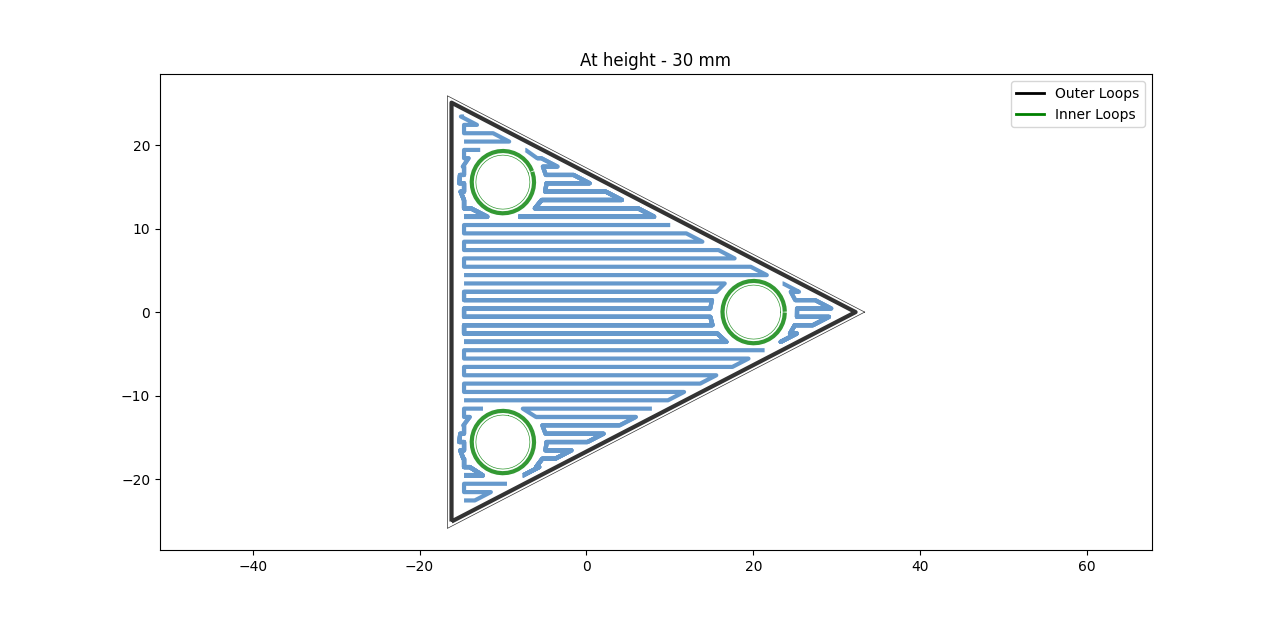
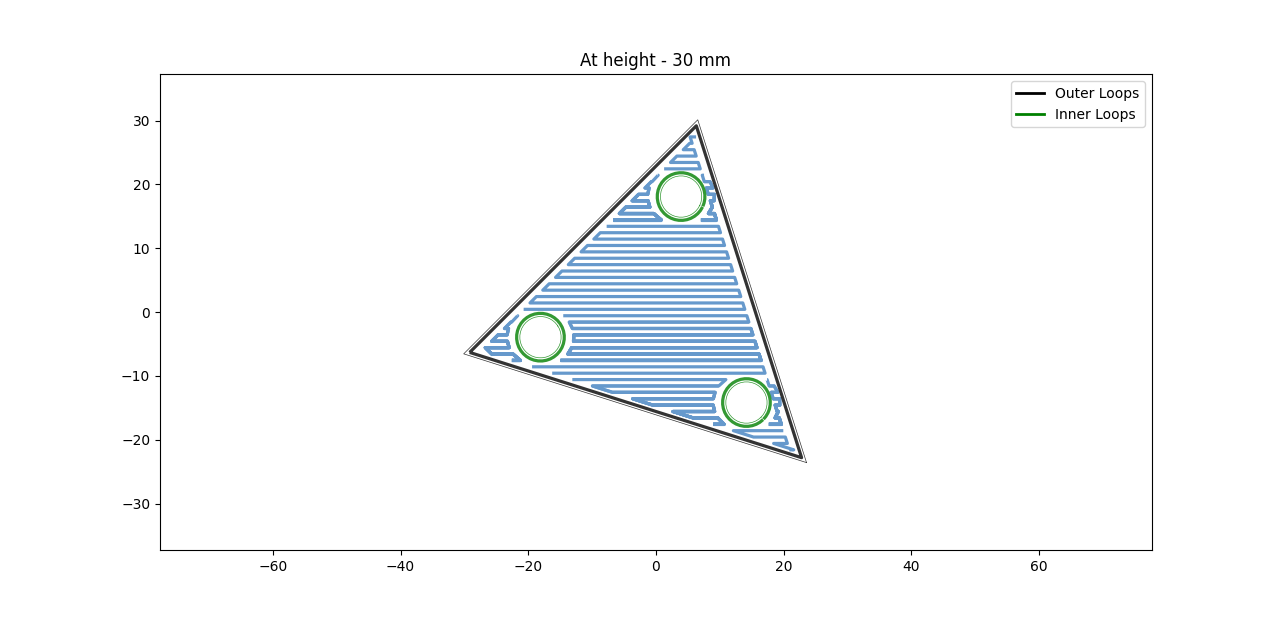
Improved refining, removed bugs

diff --git a/main.py b/main.py
@@ -16,6 +16,7 @@ from figures import SIZE, BLUE, GRAY, GREEN, DARKGRAY, set_limits, plot_line
 print('Solution by Snehil Saluja. Please keep on closing the windows opening while the code runs to proceed further.')
 
 mesh = trimesh.load('./assignment.stl')
+check_points = []
 
 
 def add_shell(ax, x, y, count, air_gap, shell_width, mode="inner"):
@@ -63,21 +64,38 @@ def plot_maze(ax, line, turn, anyline, air_gap, raster_width):
         return anyline
 
 
+def check_cuts(i, polygon):
+    intersection_line = LineString([(-5000, i), (5000, i)])
+    try:
+        collect = polygon.intersection(intersection_line)
+        return(collect)
+    except:
+        return(0)
+
+
 def infill(ax, polygon, x, y, air_gap, raster_width):
+
+    k = 0
 
     i = min(y) + air_gap + raster_width
     turn = 'odd'
     mainmultiline = []
     mainline = []
+    counter = 0
 
     while(i < (max(y) - air_gap - raster_width)):
-        intersection_line = LineString([(-5000, i), (5000, i)])
-        try:
-            collect = polygon.intersection(intersection_line)
-        except:
-            break
+        if(check_cuts(i, polygon) == 0):
+            continue
+        else:
+            collect = check_cuts(i, polygon)
 
         if(isinstance(collect, MultiLineString)):
+            if(len(check_cuts(i, polygon).geoms) != counter):
+                mainmultiline = [[] for line in list(collect.geoms)]
+                turnarray = ['odd' for line in list(collect.geoms)]
+                counter = len(collect.geoms)
+                continue
+
             if(len(mainline) > 0):
                 mainmultiline = [[] for line in list(collect.geoms)]
                 turnarray = ['odd' for line in list(collect.geoms)]
@@ -87,6 +105,7 @@ def infill(ax, polygon, x, y, air_gap, raster_width):
                 mainline = []
                 turn = 'odd'
             for j, line in enumerate(list(collect.geoms)):
+                # print(j, line)
                 plot_maze(
                     ax, line, turnarray[j], mainmultiline[j], air_gap, raster_width)
                 if(turnarray[j] == 'even'):
@@ -111,7 +130,8 @@ def infill(ax, polygon, x, y, air_gap, raster_width):
         i = i + air_gap + (raster_width)
 
     if(mainline != []):
-        plot_line(ax, LineString(mainline), color=BLUE, linewidth=raster_width)
+        final = LineString(mainline)
+        plot_line(ax, final, color=BLUE, linewidth=raster_width)
         mainline = []
 
 
@@ -135,15 +155,38 @@ def slicer(height, air_gap, width):
     for polygon in polygons:
         x, y = polygon.exterior.xy
 
+        x = np.array(x)
+        y = np.array(y)
+
+        new_x = np.divide((x + y), 2**0.5)
+        new_y = np.divide((y - x), 2**0.5)
+
         shell_exterior = add_shell(
-            ax, x, y, count=1, air_gap=air_gap, shell_width=width, mode="outer")
+            ax, new_x, new_y, count=1, air_gap=air_gap, shell_width=width, mode="outer")
 
     shell_interior = []
 
+    for poly in inside_polygons:
+        x = np.array(x)
+        y = np.array(y)
+
+        new_x = np.divide((x + y), 2**0.5)
+        new_y = np.divide((y - x), 2**0.5)
+
+        [check_points.append(p) for p in new_y if p not in check_points]
+        # print(check_points)
+
     for interior in polygon.interiors:
         x, y = interior.xy
+
+        x = np.array(x)
+        y = np.array(y)
+
+        new_x = np.divide((x + y), 2**0.5)
+        new_y = np.divide((y - x), 2**0.5)
+
         shell_interior.append(
-            add_shell(ax, x, y, count=1, air_gap=air_gap, shell_width=width, mode="inner"))
+            add_shell(ax, new_x, new_y, count=1, air_gap=air_gap, shell_width=width, mode="inner"))
 
     new_polygon = Polygon(shell_exterior, shell_interior)
 
@@ -167,6 +210,9 @@ def slicer(height, air_gap, width):
     ax.legend(custom_lines, ['Outer Loops', 'Inner Loops'])
 
     plt.title('At height - ' + str(height) + " mm")
+
+    plt.xlim(-50, 50)
+    plt.ylim(-75, 75)
 
     plt.show()
 
